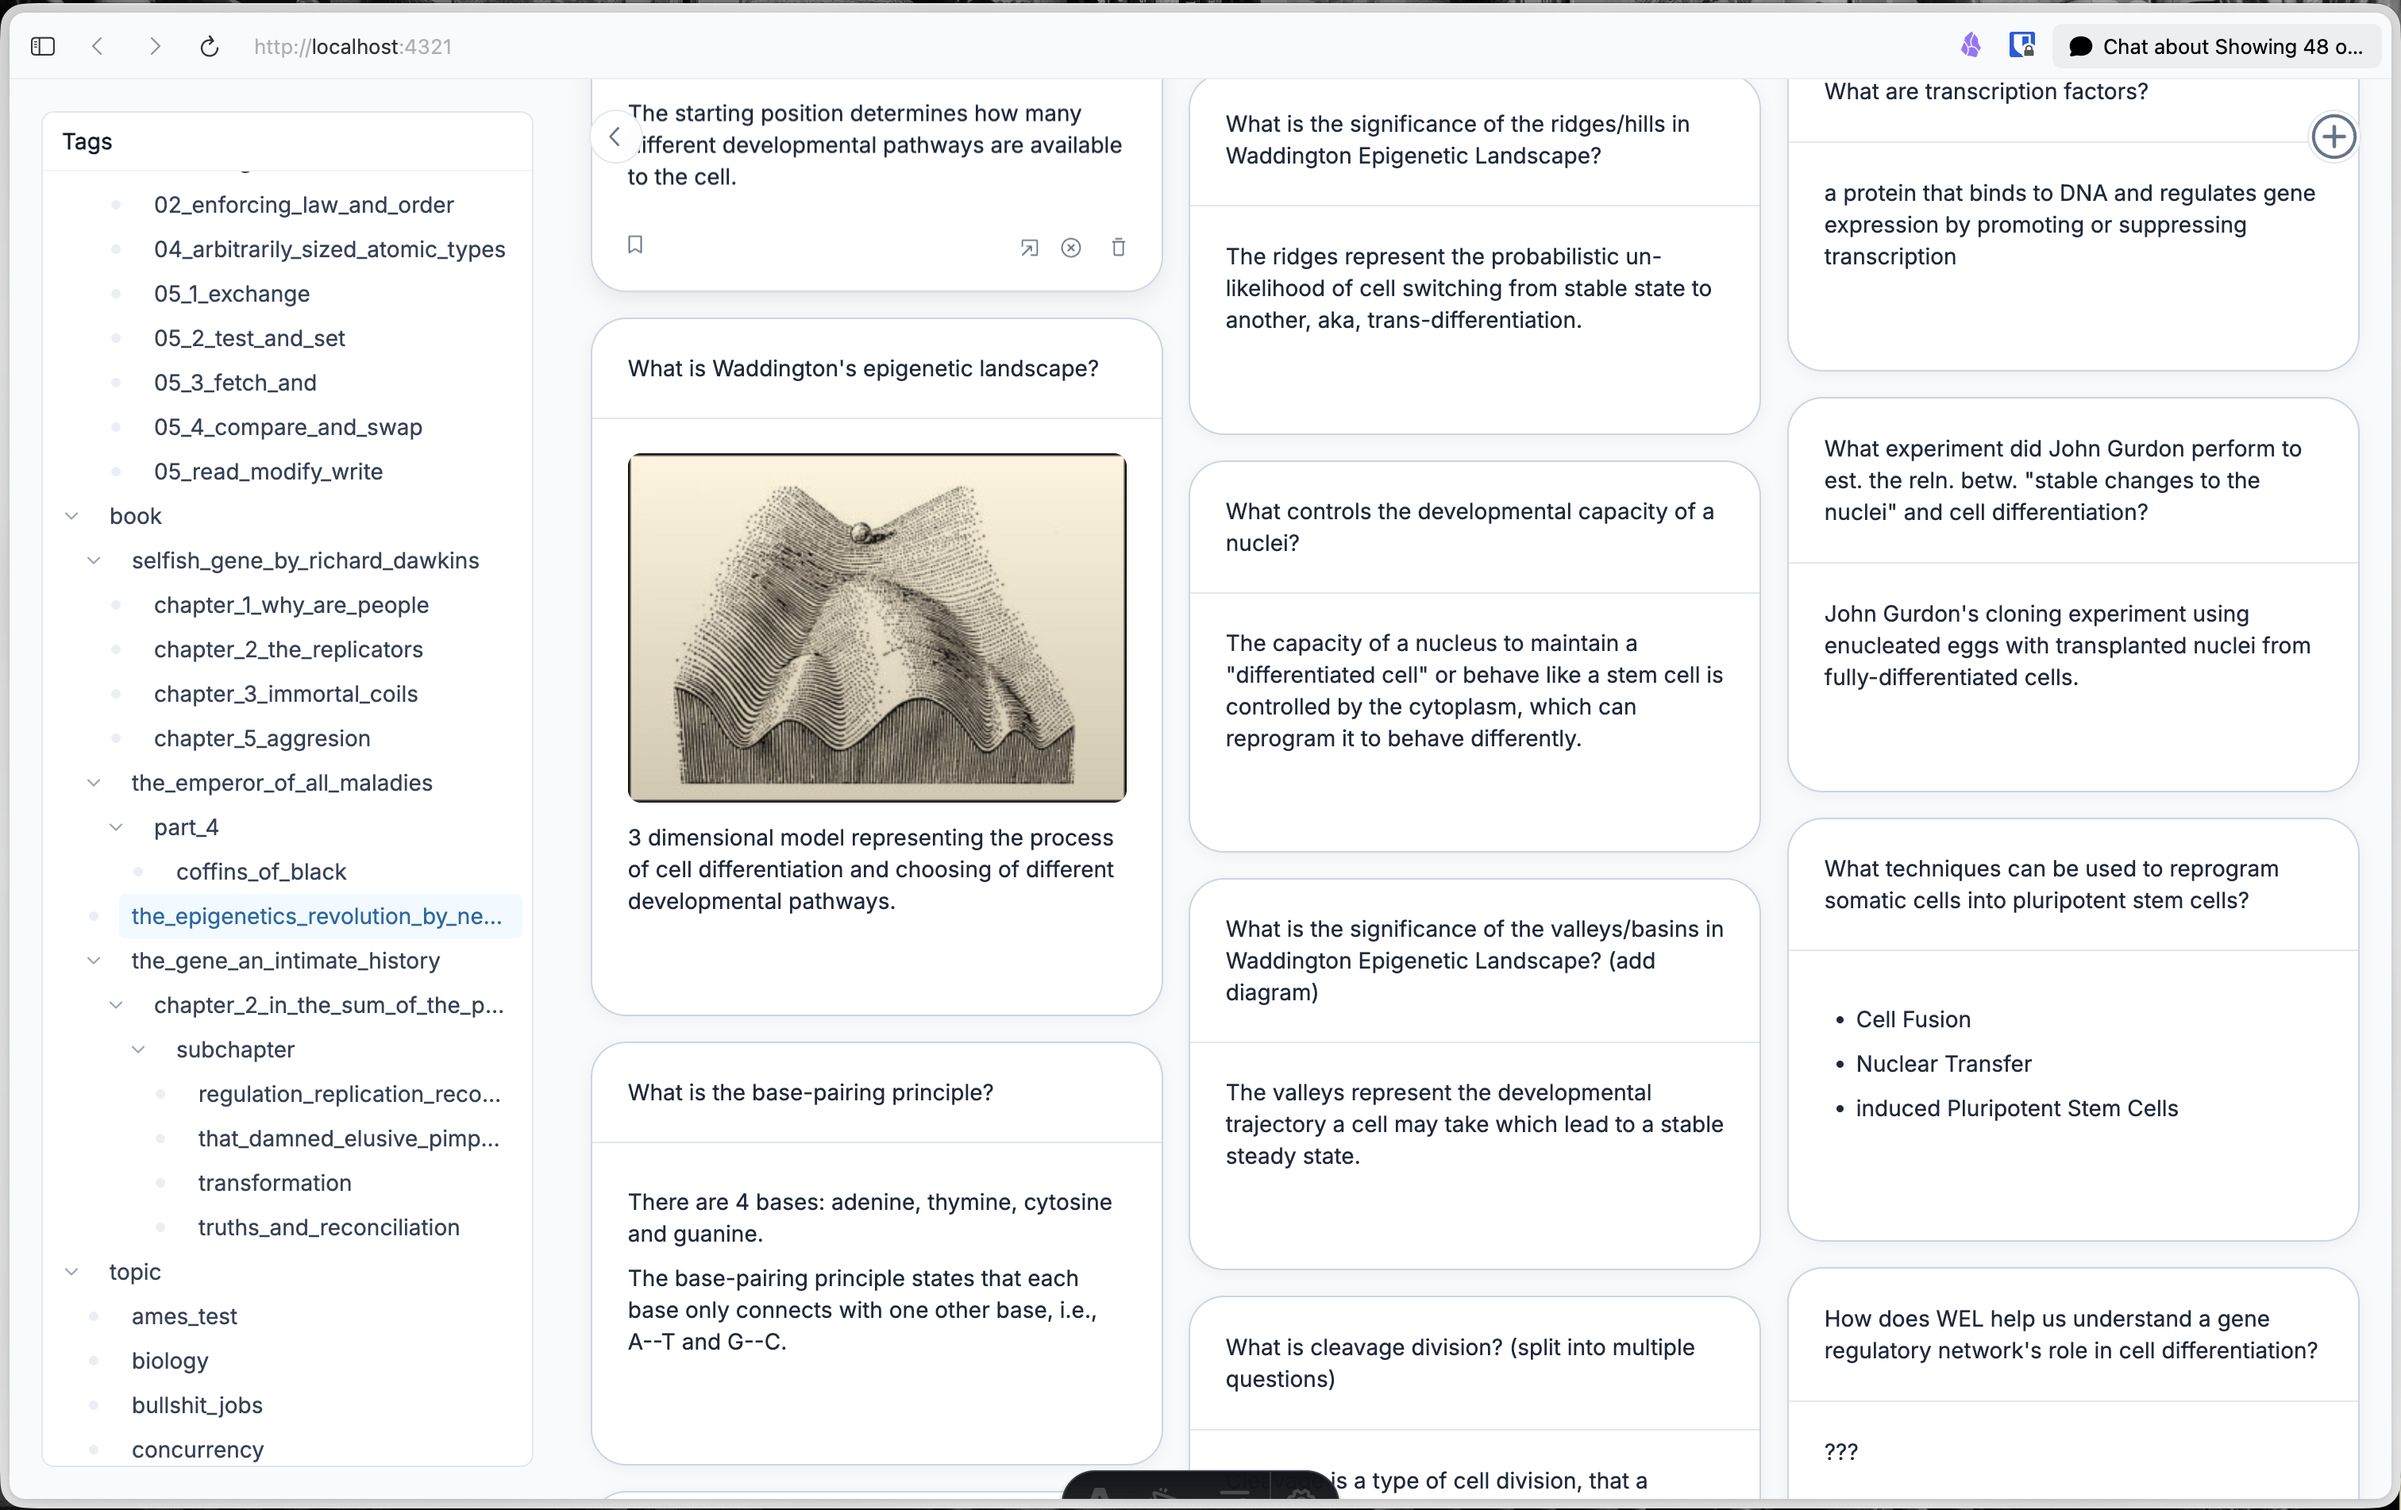
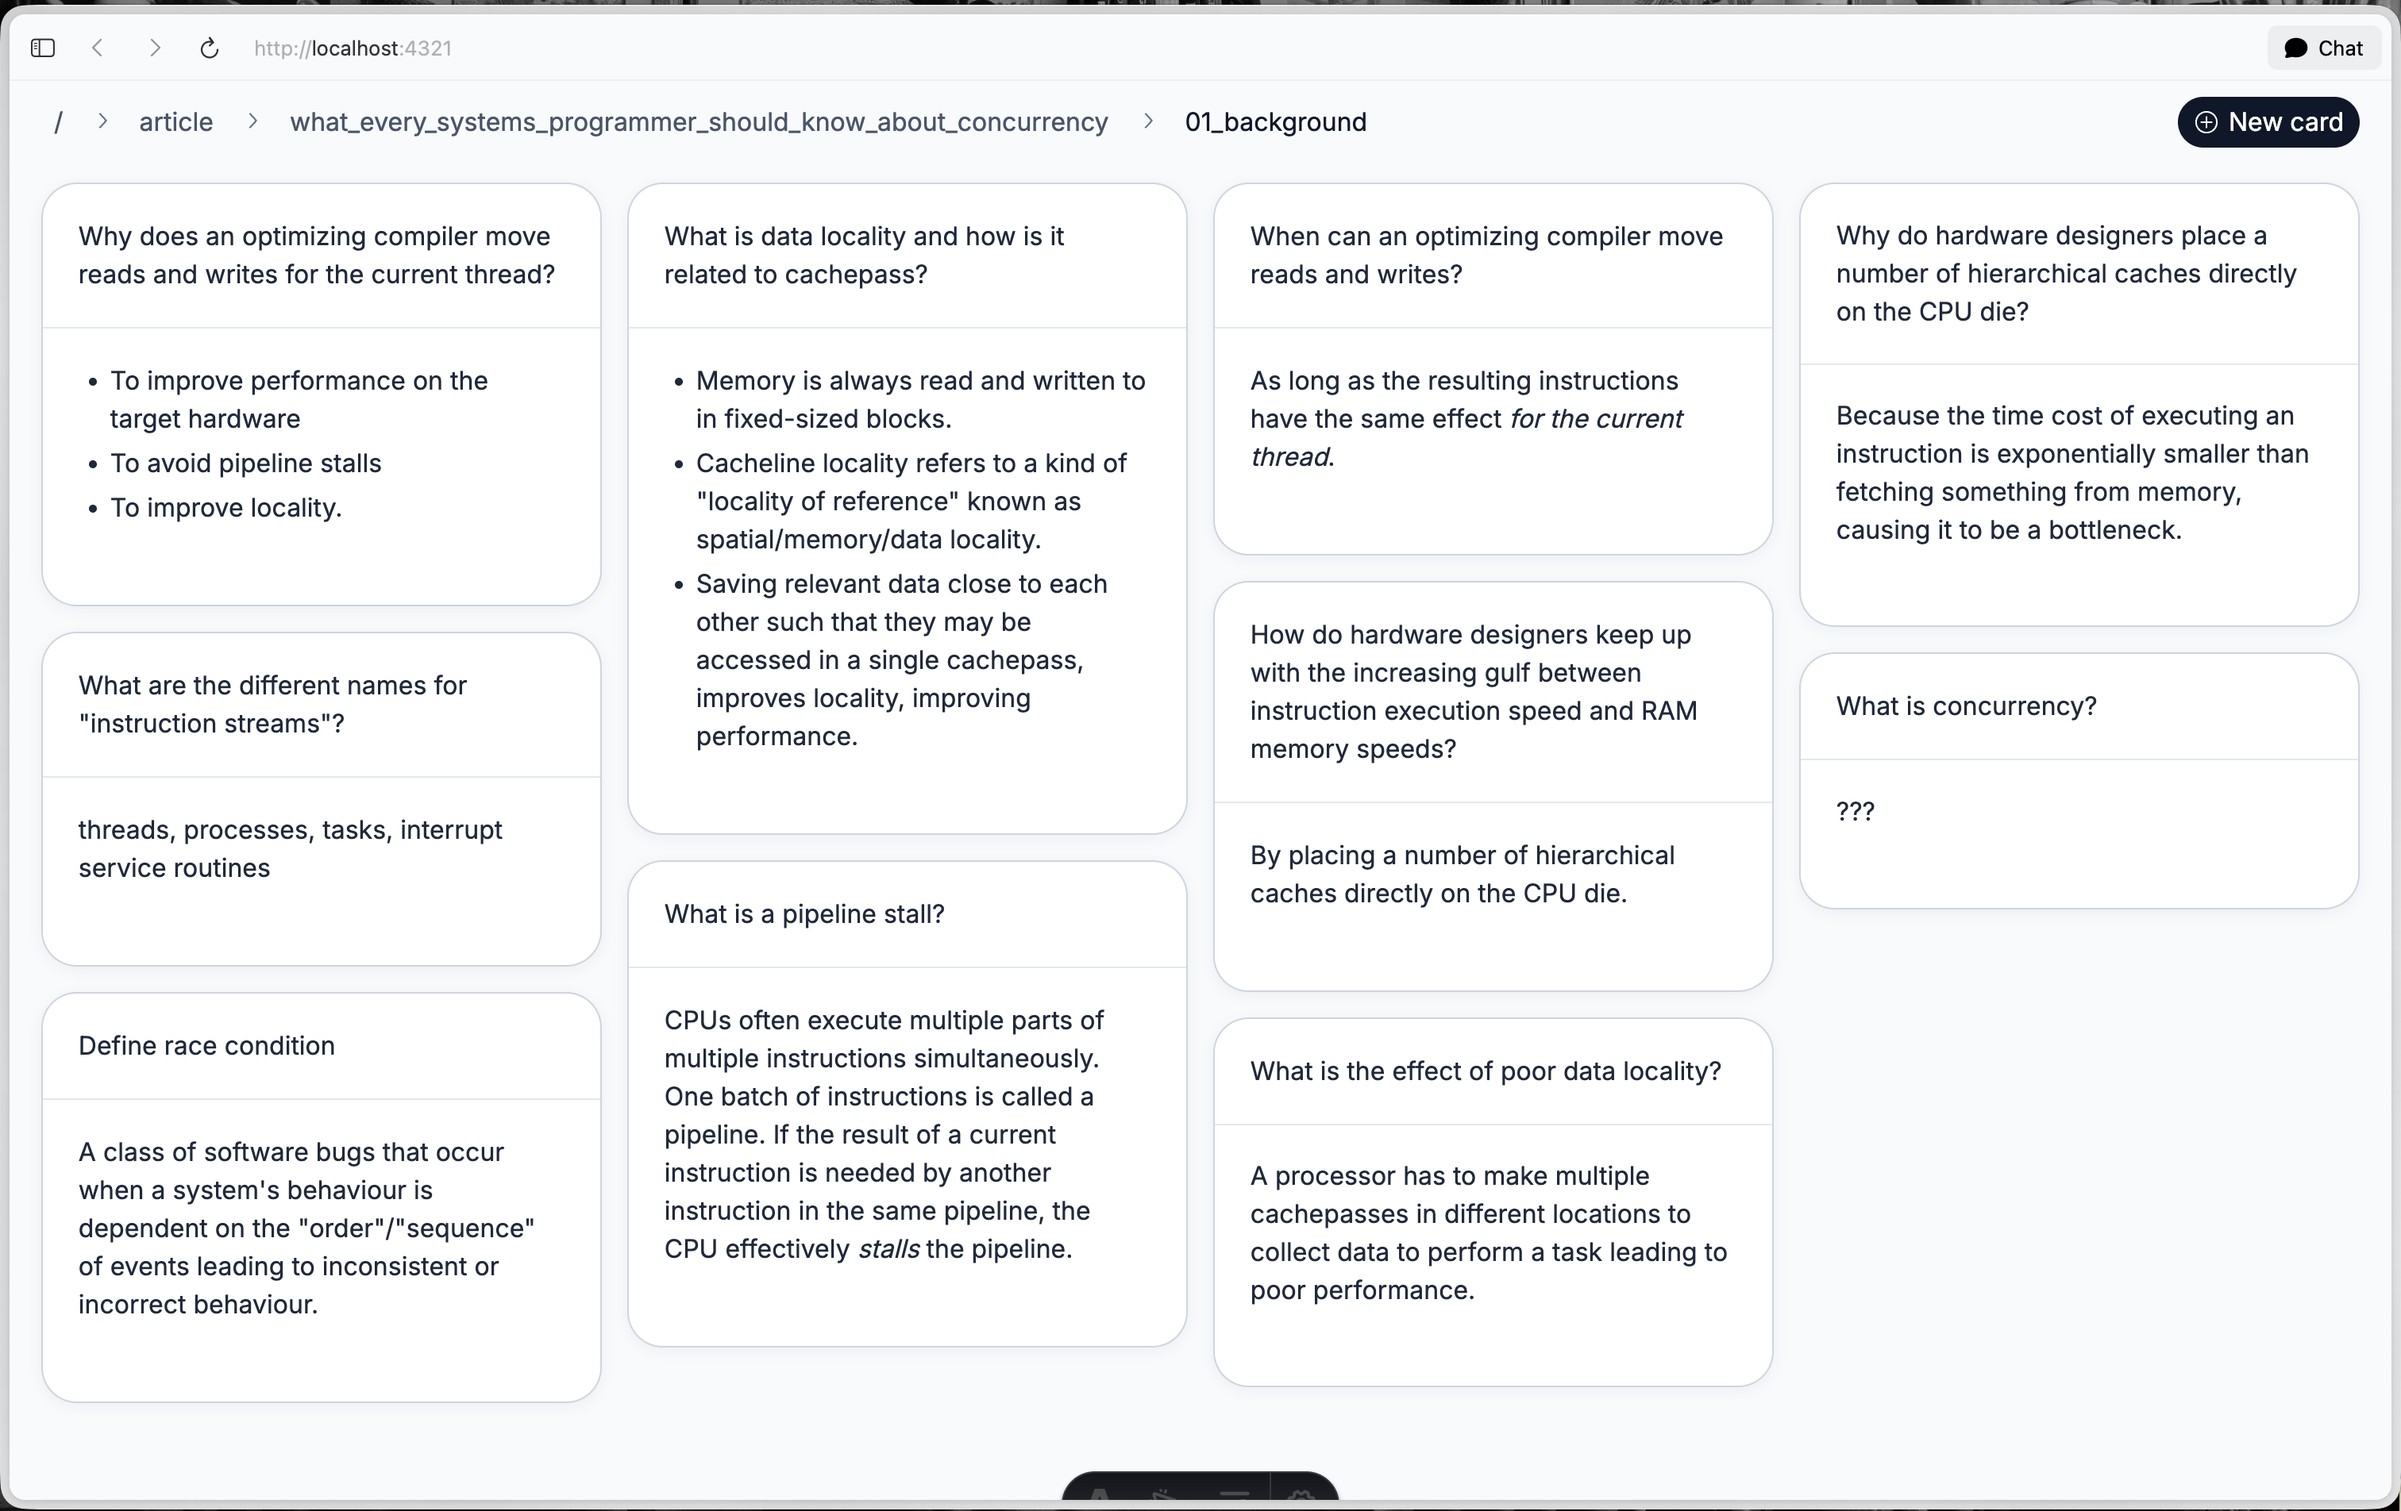
Update README and screenshot

diff --git a/README.md b/README.md
@@ -6,21 +6,22 @@ Built with Astro, React, Tailwind, and Bun.
 
 ## Screenshot
 
-![MyAnki overview showing the tag tree on the left and a masonry grid of editable cards on the right](docs/screenshots/myanki-overview.png)
+![MyAnki overview showing the breadcrumb tag navigator at the top and a masonry grid of editable cards below](docs/screenshots/myanki-overview.png)
 
 ## What it does
 
 MyAnki gives you a card-browser style interface for your existing Anki collection:
 
 - browse cards in a responsive masonry grid
-- filter by hierarchical tags from the left sidebar
+- navigate hierarchical tags from the breadcrumb bar at the top
 - edit note fields inline with markdown-powered editors
-- preview rendered HTML, including images from your Anki media collection
+- preview rendered HTML, including images and LaTeX from your Anki content
 - add or remove tags from each note
 - open a note directly in the Anki browser
 - suspend, unsuspend, or delete cards/notes
-- create a new card from the current deck / note type context
+- create a new card inline and save it once you start typing
 - autosave field and tag changes
+- get toast notifications for saves and errors
 
 ## Stack
 
@@ -79,6 +80,6 @@ bun run preview  # preview the production build locally
 ## Notes
 
 - This app is meant for collection browsing and editing, not review/study mode.
-- Tag expansion state is persisted in local storage.
+- Breadcrumb tag navigation lets you jump directly to a path or open child segments from the separator control.
 - Cards refresh periodically so collection changes made in Anki show up in the UI.
 - Field content is edited as markdown and saved back to Anki as HTML.
